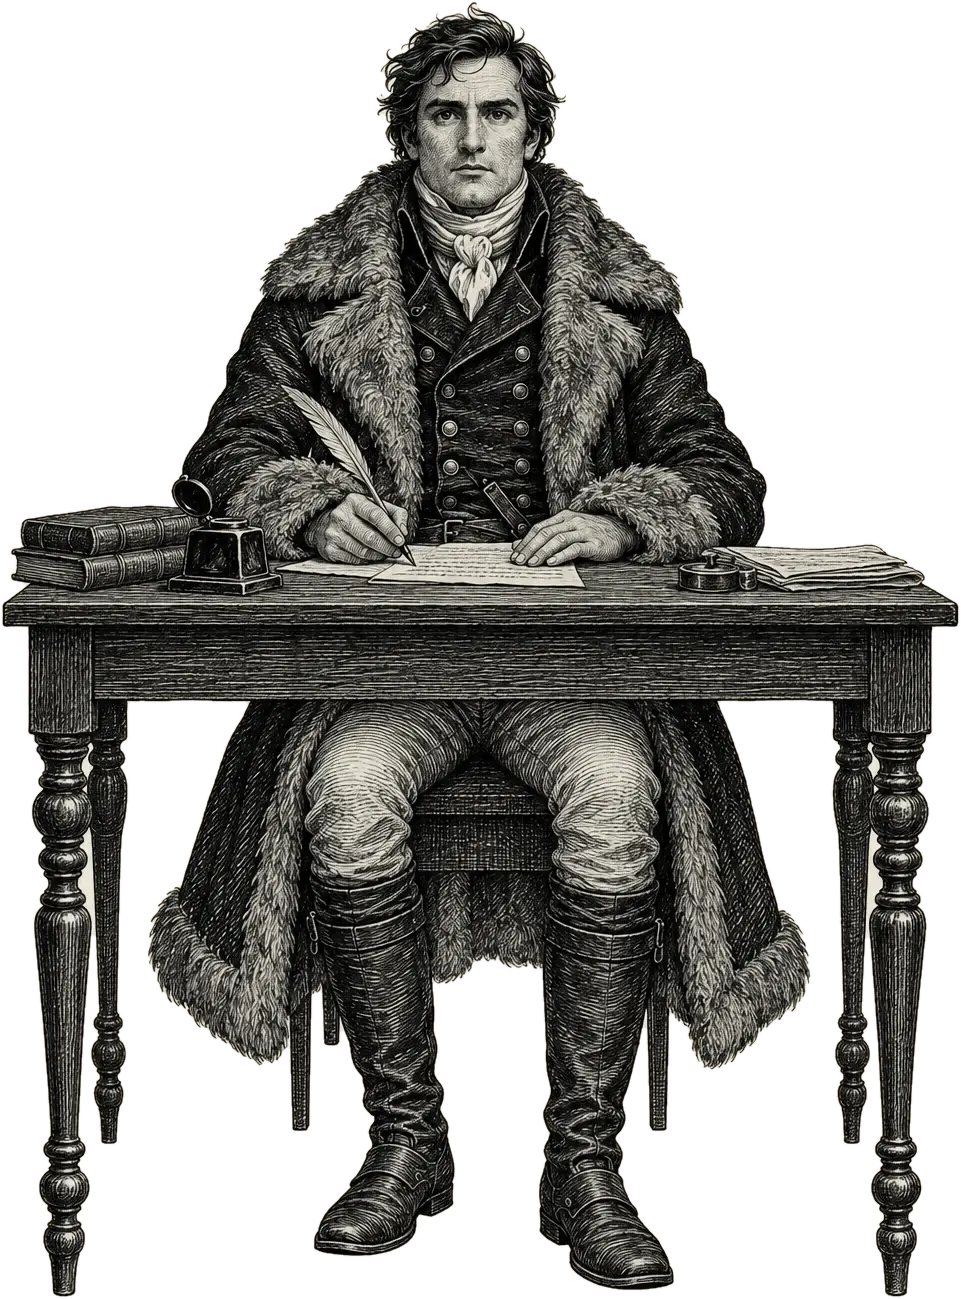
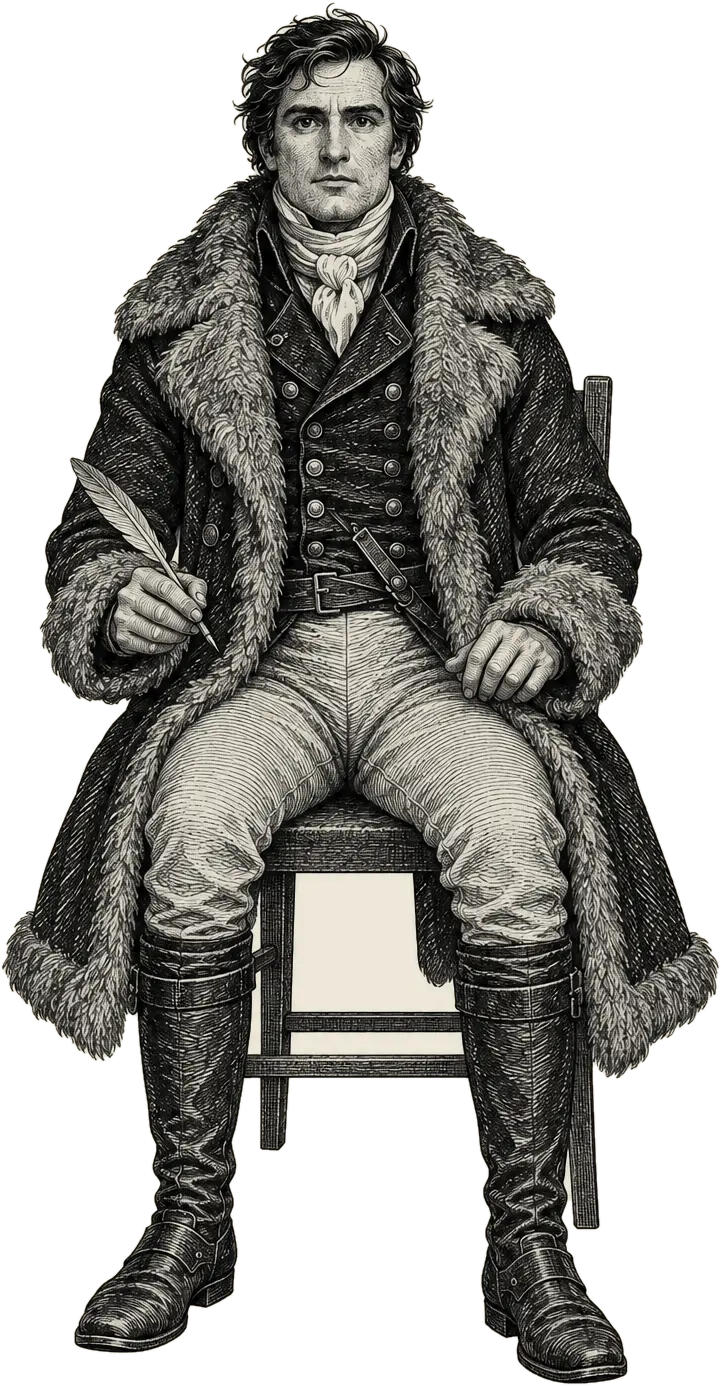
Letter 1: Walton's writing drawing, redrawn without a desk, sits at the room's desk; the desk stays all scene
Claude-Session: https://claude.ai/code/session_015J9f2YVWE3eqxvLQrkHQmj

diff --git a/src/scenes/letter1.js b/src/scenes/letter1.js
@@ -48,8 +48,9 @@ export const letter1 = {
     const AT_WINDOW = { x: 1.6, z: ROOM.back + 0.5 }; // to the right of the panes, so the street shows past him
 
     const writing = (t) => t < T.walk - 1.2 || (t > T.refl + 5.2 && t < T.fav - 1.0) || t > T.depart + 5.2;
-    // The AI drawing of him writing has its own desk and chair, so the room's are put away meanwhile.
-    const ownDesk = !!ai['cast/walton_write'];
+    // The AI drawing of him writing has its own chair (and no desk: the room's desk stays put),
+    // so the room's chair is put away meanwhile.
+    const ownChair = !!ai['cast/walton_write'];
     function walton(t) {
       const legs = [
         [0, BY_DESK], [T.walk - 0.6, BY_DESK], [T.walk + 4.5, AT_WINDOW],
@@ -104,7 +105,7 @@ export const letter1 = {
       hotspots: room.hotspots,
       camera,
       actors: (t) => ({ walton: walton(t) }),
-      update(t) { room.update(t); sledge(t); think(t); room.desk.visible = room.chair.visible = !(ownDesk && writing(t)); },
+      update(t) { room.update(t); sledge(t); think(t); room.chair.visible = !(ownChair && writing(t)); },
     };
   },
 };
